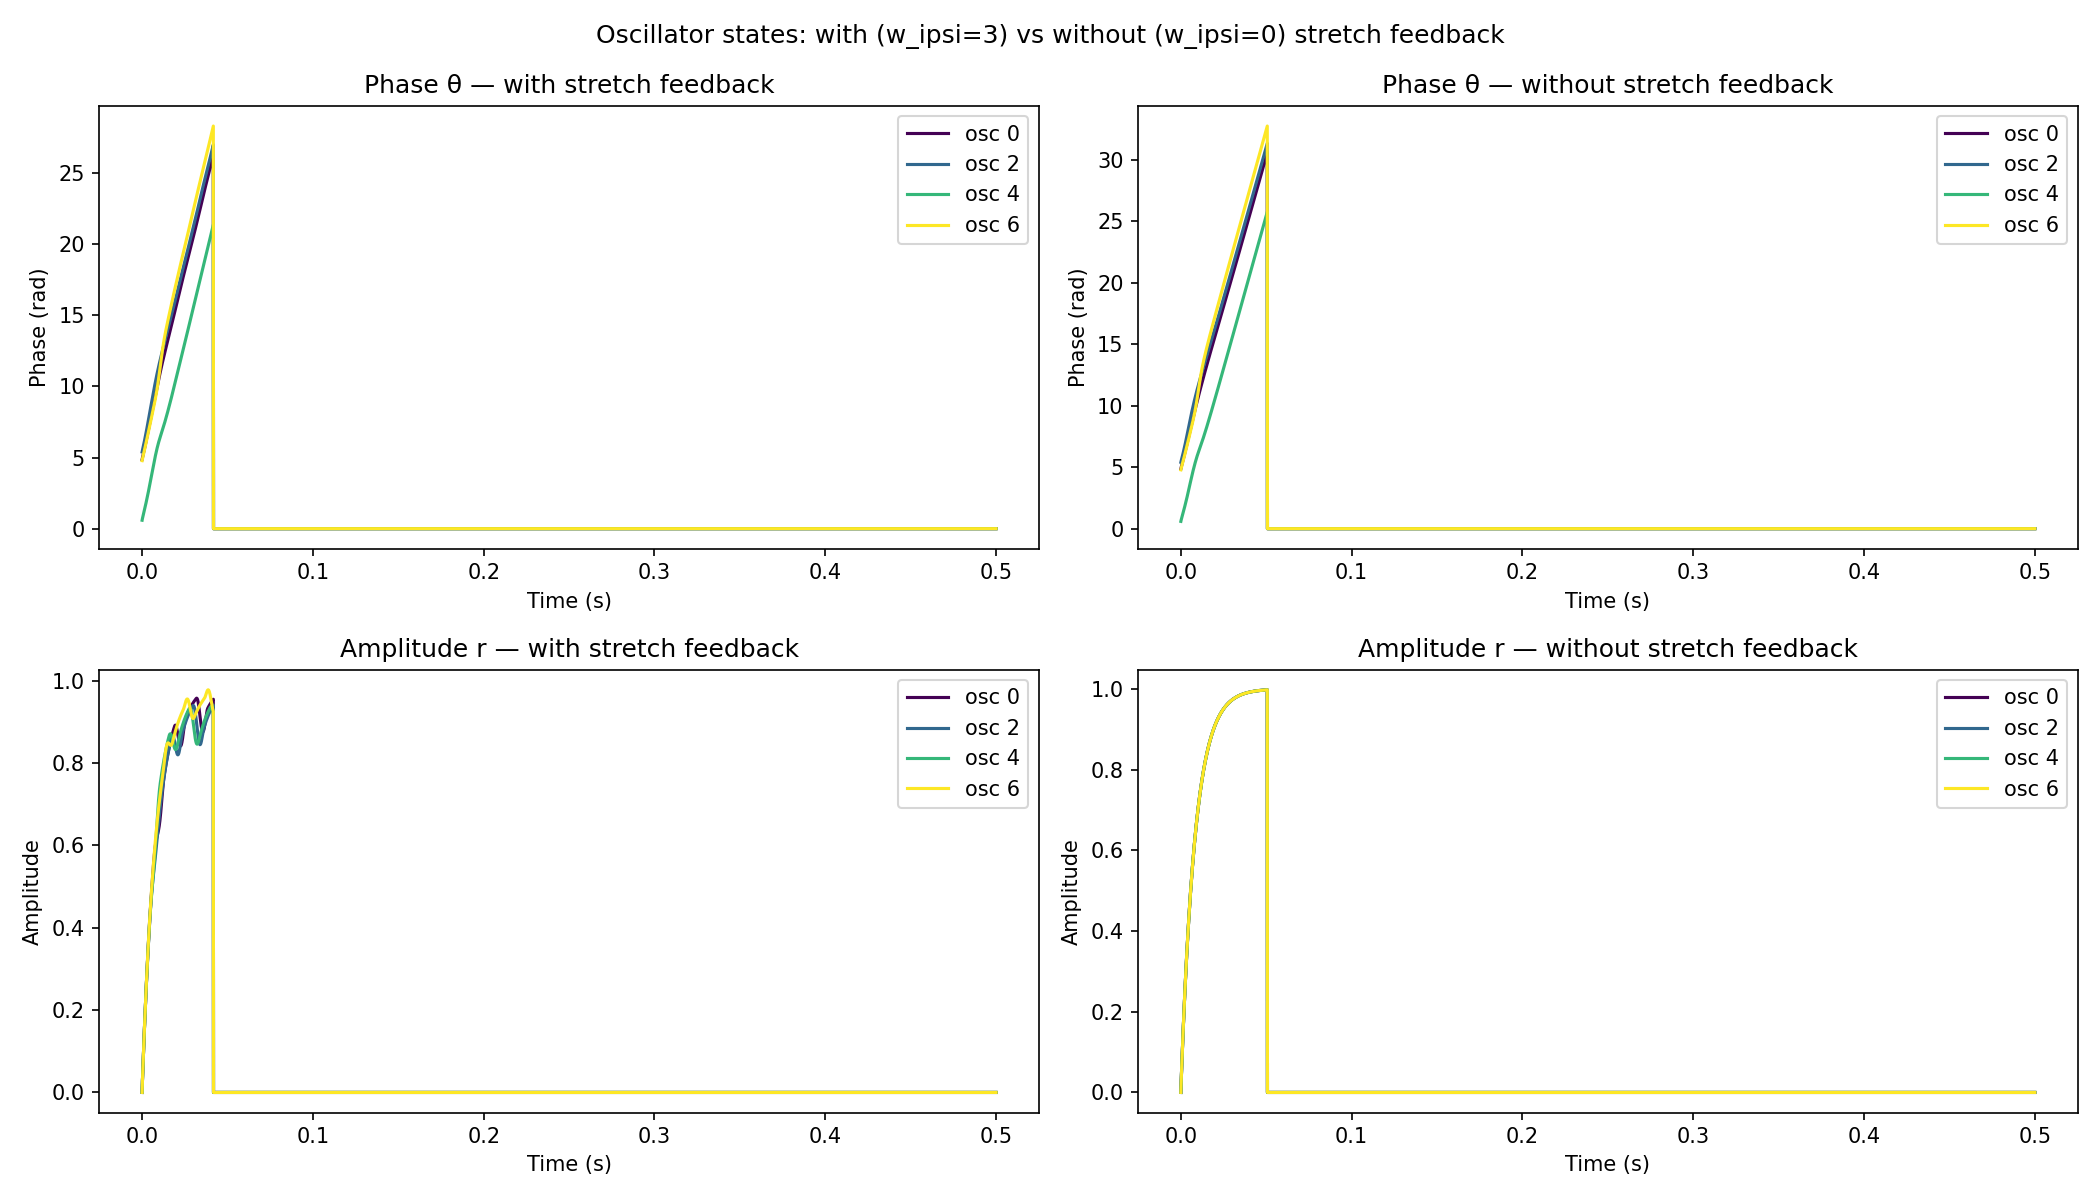
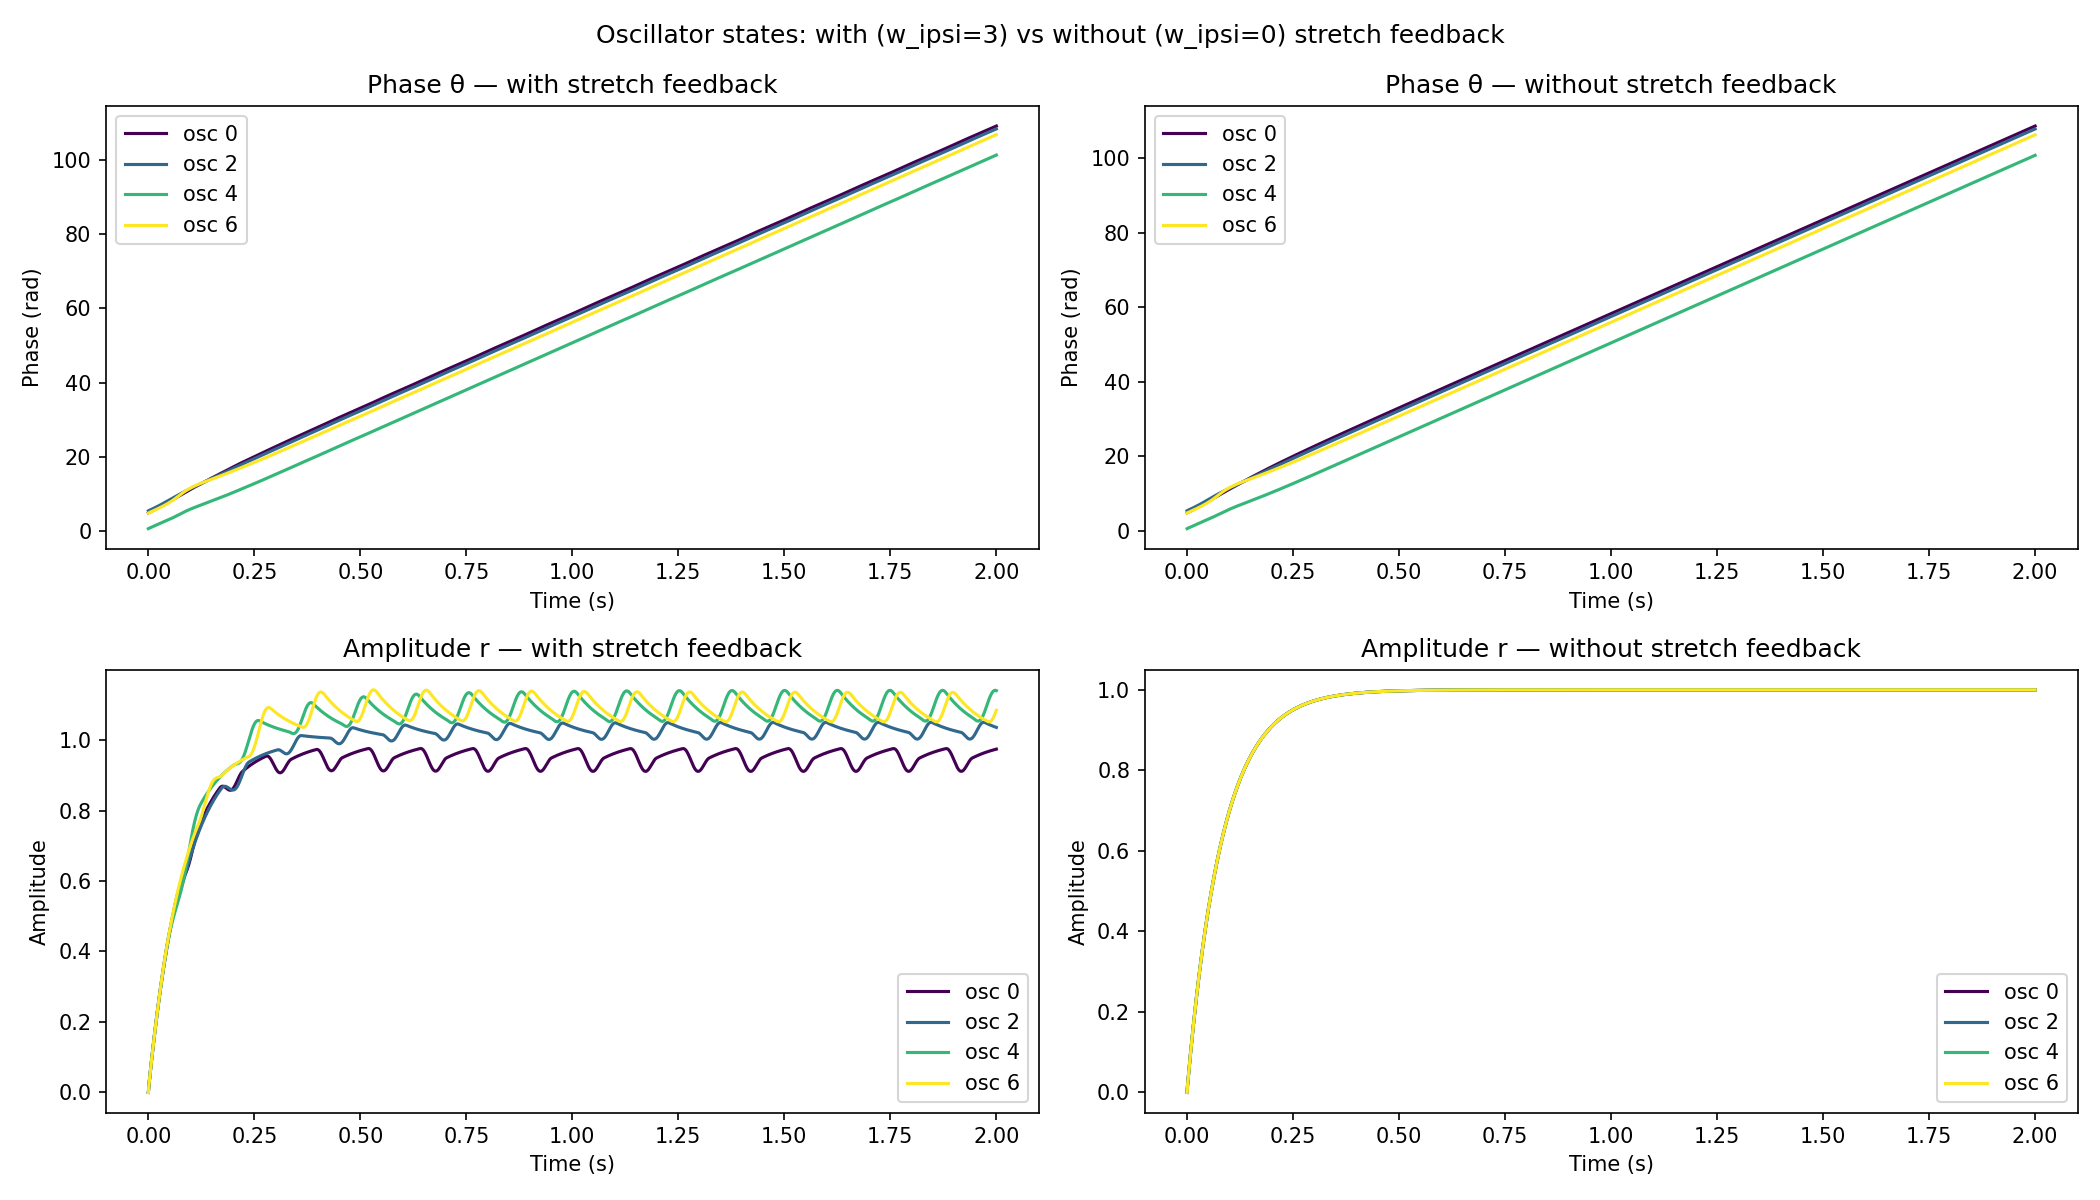
got theta and r  plots for 3.1

diff --git a/Project1/Python/exercise3_1.py b/Project1/Python/exercise3_1.py
@@ -1,5 +1,6 @@
 #!/usr/bin/env python3
 
+import time
 import os
 import h5py
 import pickle
@@ -21,81 +22,97 @@ from simulate import runsim
 BASE_PATH = 'logs/exercise3_1/'
 PLOT_PATH = 'results'
 
+'''
+def post_processing_with_sf(base_path):
+    """Post processing"""
+    # Load HDF5
+    sim_result = base_path + 'simulation_with_sf.hdf5'
+    with h5py.File(sim_result, "r") as f:
+        sim_times = f['times'][:]
+        state_data = f['FARMSLISTanimats']['0']['state'][:] #rajout pour les plots
+        sensor_data_links = f['FARMSLISTanimats']['0']['sensors']['links']['array'][:]
+        sensor_data_joints = f['FARMSLISTanimats']['0']['sensors']['joints']['array'][:]
+    sensor_data_links_positions = sensor_data_links[:, :, 7:10]
+    sensor_data_joints_positions = sensor_data_joints[:, :, 0]
 
-def main(**kwargs):
-    """Run exercise 3.1 simulations with and without sensory feedback."""
-    controller = {
-        'loader': 'cmc_controllers.CPG_controller.CPGController',
-        'config': {
-            'drive_left': 3,
-            'drive_right': 3,
-            'd_low': 1,
-            'd_high': 5,
-            'a_rate': np.ones(8) * 3,
-            'offset_freq': np.ones(8) * 1,
-            'offset_amp': np.ones(8) * 0.5,
-            'G_freq': np.ones(8) * 0.5,
-            'G_amp': np.ones(8) * 0.25,
-            'PL': np.ones(7) * np.pi * 2 / 8,
-            'coupling_weights_rostral': 5,
-            'coupling_weights_caudal': 5,
-            'coupling_weights_contra': 10,
-            'init_phase': np.random.default_rng(
-                seed=42).uniform(
-                0.0,
-                2 * np.pi,
-                size=16),
-        },
-    }
-    w_ipsi = 3
-    fast = kwargs.pop('fast', False)
-    headless = kwargs.pop('headless', False)
+    # Load Controller
+    with open(base_path + "controller_with_sf.pkl", "rb") as f:
+        controller_data = pickle.load(f)
+    print("controleur data keys:", controller_data.keys())
 
-    pylog.warning("TODO: 3.1 Simulate with and without sensory feedback")
+    # pour l'instant c'est guez de ouf
 
-    pylog.warning("TODO: 3.1 Compare the performance")
+    # θ et r directement depuis HDF5
+    theta_hist = sensor_data_links_positions   
+    r_hist     = sensor_data_joints_positions  
 
+    # Filtre 5s
+    mask = sim_times <= 5.0
+    t = sim_times[mask]
 
-    runsim(
-        controller=controller,
-        base_path=BASE_PATH,
-        w_ipsi=w_ipsi,
-        recording='animation3_1_with_sf.mp4',
-        hdf5_name='simulation_with_sf.hdf5',
-        controller_name='controller_with_sf.pkl',
-        runtime_n_iterations=5001,
-        runtime_buffer_size=5001,
-        fast=fast,
-        headless=headless,
-    )
-   
-    runsim(
-        controller=controller,
-        base_path=BASE_PATH,
-        w_ipsi=0,
-        recording='animation3_1_without_sf.mp4',
-        hdf5_name='simulation_without_sf.hdf5',
-        controller_name='controller_without_sf.pkl',
-        runtime_n_iterations=5001,
-        runtime_buffer_size=5001,
-        fast=fast,
-        headless=headless,
-    )
+    # Plot θ
+    plt.figure()
+    for i in range(16):
+        plt.plot(t, theta_hist[mask, i], label=f"θ_{i}")
+    plt.xlabel("Time [s]"); plt.ylabel("Phase θ")
+    plt.title("Time evolution of phases (θ) WITH SF"); plt.legend(); plt.grid()
 
-    plot_oscillator_states()
-  
-def exercise3_1(**kwargs):
-    """ex3.1 main"""
-    profile(function=main, profile_filename='',
-            fast=kwargs.pop('fast', False),
-            headless=kwargs.pop('headless', False),)
-    plot = kwargs.pop('plot', False)
-    if plot:
-        plt.show()
+    # Plot r
+    plt.figure()
+    for i in range(16):
+        plt.plot(t, r_hist[mask, i], label=f"r_{i}")
+    plt.xlabel("Time [s]"); plt.ylabel("Amplitude r")
+    plt.title("Time evolution of amplitudes (r) WITH SF"); plt.legend(); plt.grid()
 
+    #########################################################################
+
+def post_processing_without_sf(base_path):
+    """Post processing"""
+    # Load HDF5
+    sim_result = base_path + 'simulation_without_sf.hdf5'
+    with h5py.File(sim_result, "r") as f:
+        sim_times = f['times'][:]
+        state_data = f['FARMSLISTanimats']['0']['state'][:] #rajout pour les plots
+        sensor_data_links = f['FARMSLISTanimats']['0']['sensors']['links']['array'][:]
+        sensor_data_joints = f['FARMSLISTanimats']['0']['sensors']['joints']['array'][:]
+    sensor_data_links_positions = sensor_data_links[:, :, 7:10]
+    sensor_data_joints_positions = sensor_data_joints[:, :, 0]
+
+    # Load Controller
+    with open(base_path + "controller_without_sf.pkl", "rb") as f:
+        controller_data = pickle.load(f)
+    print("controleur data keys:", controller_data.keys())
+
+    # pour l'instant c'est guez de ouf
+
+    # θ et r directement depuis HDF5
+    theta_hist = state_data[:, :16]   # colonnes 0-15
+    r_hist     = state_data[:, 16:32] # colonnes 16-31
+
+    # Filtre 5s
+    mask = sim_times <= 5.0
+    t = sim_times[mask]
+
+    # Plot θ
+    plt.figure()
+    for i in range(16):
+        plt.plot(t, theta_hist[mask, i], label=f"θ_{i}")
+    plt.xlabel("Time [s]"); plt.ylabel("Phase θ")
+    plt.title("Time evolution of phases (θ) NO SF"); plt.legend(); plt.grid()
+
+    # Plot r
+    plt.figure()
+    for i in range(16):
+        plt.plot(t, r_hist[mask, i], label=f"r_{i}")
+    plt.xlabel("Time [s]"); plt.ylabel("Amplitude r")
+    plt.title("Time evolution of amplitudes (r) NO SF"); plt.legend(); plt.grid()
+
+    #########################################################################
+
+'''
 
 def plot_oscillator_states():
-    # Plot oscillator states (theta and r) for w_ipsi=3 and w_ipsi=0
+    """Plot oscillator states (theta and r) for w_ipsi=3 and w_ipsi=0"""
 
     with open(os.path.join(BASE_PATH, 'controller_with_sf.pkl'), 'rb') as f:
         controller_with = pickle.load(f)
@@ -105,11 +122,6 @@ def plot_oscillator_states():
     # Extract states directly from the dict
     state_with = controller_with['state']       # shape (n_iterations, 3*n_oscillators)
     state_without = controller_without['state']
-
-    print("min amplitude:", np.min(state_with[:515, 16:32]))
-    print("max amplitude:", np.max(state_with[:515, 16:32]))
-    print("amplitude at iteration 514:", state_with[514, 16:32])
-    return
 
     n_oscillators = 16
     n_iterations = state_with.shape[0]
@@ -174,6 +186,82 @@ def plot_oscillator_states():
     plt.savefig(os.path.join(PLOT_PATH, 'oscillator_states_comparison.png'), dpi=150)
     plt.show()
 
+def main(**kwargs):
+    """Run exercise 3.1 simulations with and without sensory feedback."""
+    controller = {
+        'loader': 'cmc_controllers.CPG_controller.CPGController',
+        'config': {
+            'drive_left': 3,
+            'drive_right': 3,
+            'd_low': 1,
+            'd_high': 5,
+            'a_rate': np.ones(8) * 3,
+            'offset_freq': np.ones(8) * 1,
+            'offset_amp': np.ones(8) * 0.5,
+            'G_freq': np.ones(8) * 0.5,
+            'G_amp': np.ones(8) * 0.25,
+            'PL': np.ones(7) * np.pi * 2 / 8,
+            'coupling_weights_rostral': 5,
+            'coupling_weights_caudal': 5,
+            'coupling_weights_contra': 10,
+            'init_phase': np.random.default_rng(
+                seed=42).uniform(
+                0.0,
+                2 * np.pi,
+                size=16),
+        },
+    }
+    w_ipsi = 3
+    fast = kwargs.pop('fast', False)
+    headless = kwargs.pop('headless', False)
+
+    #pylog.warning("TODO: 3.1 Simulate with and without sensory feedback")
+
+    #pylog.warning("TODO: 3.1 Compare the performance")
+
+    tic1 = time.time()
+    runsim(
+        controller=controller,
+        base_path=BASE_PATH,
+        w_ipsi=w_ipsi,
+        recording='animation3_1_with_sf.mp4',
+        hdf5_name='simulation_with_sf.hdf5',
+        controller_name='controller_with_sf.pkl',
+        runtime_n_iterations=2001,
+        runtime_buffer_size=2001,
+        fast=fast,
+        headless=headless,
+    )
+    #post_processing_with_sf(BASE_PATH)
+    #pylog.info('Total simulation time: %s [s]', time.time() - tic1)
+
+    tic2 = time.time()
+    runsim(
+        controller=controller,
+        base_path=BASE_PATH,
+        w_ipsi=0,
+        recording='animation3_1_without_sf.mp4',
+        hdf5_name='simulation_without_sf.hdf5',
+        controller_name='controller_without_sf.pkl',
+        runtime_n_iterations=2001,
+        runtime_buffer_size=2001,
+        fast=fast,
+        headless=headless,
+    )
+    #post_processing_without_sf(BASE_PATH)
+    #pylog.info('Total simulation time: %s [s]', time.time() - tic2)
+    plot_oscillator_states()
+
+
+  
+def exercise3_1(**kwargs):
+    """ex3.1 main"""
+    profile(function=main, profile_filename='',
+            fast=kwargs.pop('fast', False),
+            headless=kwargs.pop('headless', False),)
+    plot = kwargs.pop('plot', False)
+    if plot:
+        plt.show()
 
 
 if __name__ == '__main__':

diff --git a/Project1/Python/cmc_controllers/CPG_controller.py b/Project1/Python/cmc_controllers/CPG_controller.py
@@ -57,7 +57,7 @@ class CPGNetwork(NeuralNetwork):
         self.state = np.zeros((self.n_iterations, 3*self.n_oscillators))
 
         #test pour les plots 
-        self.state_log = []  # ajoute ça
+        #self.state_log = []  # ajoute ça
 
 
         # init phase
@@ -81,10 +81,10 @@ class CPGNetwork(NeuralNetwork):
         self.coupling_weights_caudal = coupling_weights_caudal
         self.coupling_weights_contra = coupling_weights_contra
 
-        pylog.warning("TODO 3.1 stretch feedback")
+        #pylog.warning("TODO 3.1 stretch feedback")
         self.w_ipsi = kwargs.pop('w_ipsi', None)
 
-        pylog.warning("TODO 3.3 Disruption masks")
+        #pylog.warning("TODO 3.3 Disruption masks")
         self.disruption_p_sensors = kwargs.pop('disruption_p_sensors', 0.0)
         self.disruption_p_couplings = kwargs.pop('disruption_p_couplings', 0.0)
         self.random_seed = kwargs.pop('random_seed', 42)
@@ -120,7 +120,7 @@ class CPGNetwork(NeuralNetwork):
         self.phase_bias = (2*np.pi / self.n_body_joints) * np.ones((self.n_oscillators, self.n_oscillators))
 
     def motor_output(self, phase, amplitude):
-        pylog.warning("TODO 2.1 CPG motor output implementation")
+        #pylog.warning("TODO 2.1 CPG motor output implementation")
         oscillator_output = np.zeros_like(phase)
 
         # johanne code
@@ -261,9 +261,9 @@ class CPGNetwork(NeuralNetwork):
 
         self.solver.set_f_params(stretch_full) # on le passe dans la fonction network_ode en tant que paramètre stretch_value
 
-        pylog.warning("TODO 3.3 Disruption to sensors")
+        #pylog.warning("TODO 3.3 Disruption to sensors")
 
-        pylog.warning("TODO 3.3 Set ODE parameters with stretch value")
+        #pylog.warning("TODO 3.3 Set ODE parameters with stretch value")
         #self.solver.set_f_params(np.zeros(self.n_oscillators))
 
         # Integrate ODE using dopri5 solver
@@ -271,7 +271,7 @@ class CPGNetwork(NeuralNetwork):
         integrated_state = self.solver.y
 
         #test plot
-        self.state_log.append(integrated_state[:2*self.n_oscillators].copy())
+        #self.state_log.append(integrated_state[:2*self.n_oscillators].copy())
 
       
         # motor output from CPG state
@@ -297,14 +297,16 @@ class CPGNetwork(NeuralNetwork):
             self.right_body_idx.step)
         self.state[iteration, left_storage_idx] = motor_output_left
         self.state[iteration, right_storage_idx] = motor_output_right
-
+        '''
         if iteration + 1 >= self.n_iterations:
             #test plots
             log = np.array(self.state_log)
             self.state[:len(log), :2*self.n_oscillators] = log
 
             return
-
+        '''
+        if iteration + 1 >= self.n_iterations:
+            return
         # Update state with integrated values
         self.state[iteration+1,
                    :self.n_oscillators] = integrated_state[:self.n_oscillators]

diff --git a/Project1/Python/exercise3_2.py b/Project1/Python/exercise3_2.py
@@ -1,6 +1,5 @@
 #!/usr/bin/env python3
 
-
 import os
 import pickle
 import h5py
